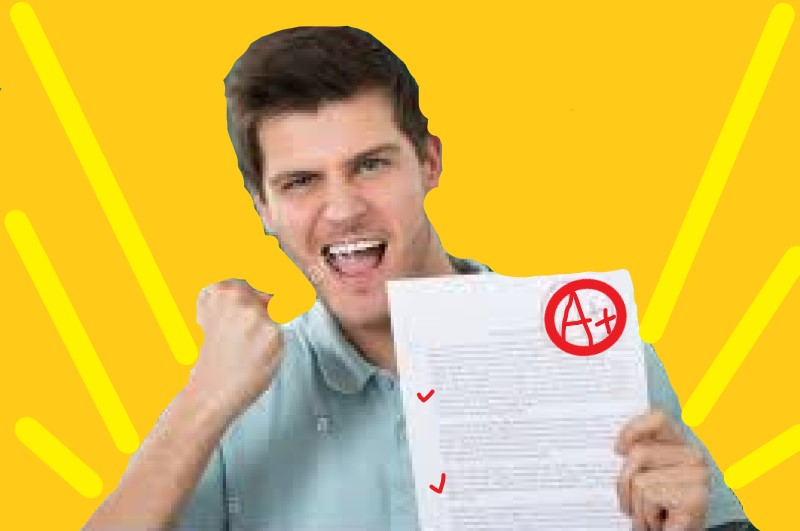
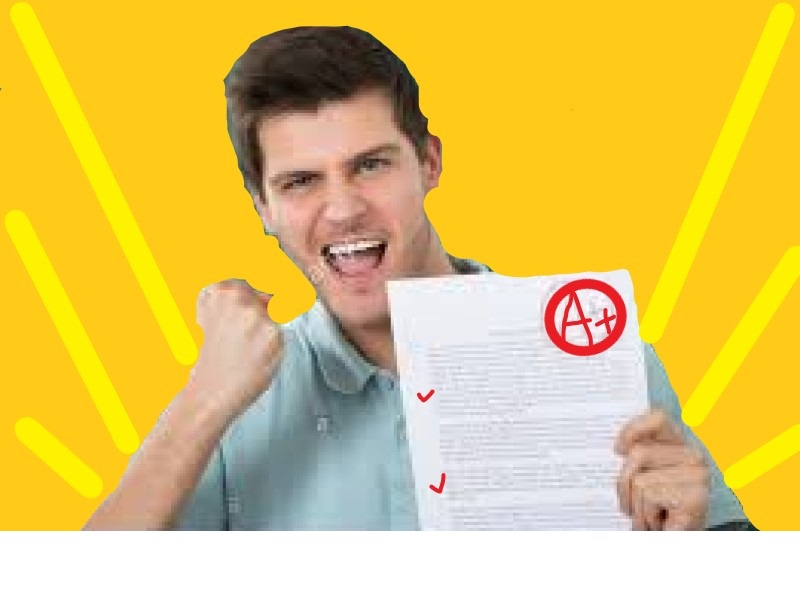
I just changed the images
I forgot to crop the images correctly so I did that here

diff --git a/src/game.py b/src/game.py
@@ -339,7 +339,7 @@ def main():
                 sys.exit()
         screen.fill(WHITE)
         pic = pygame.image.load("src/img/Success.jpg")
-        screen.blit(pic, (0, 50))
+        screen.blit(pic, (0, 0))
         pygame.display.flip()
  
 #Play the game
